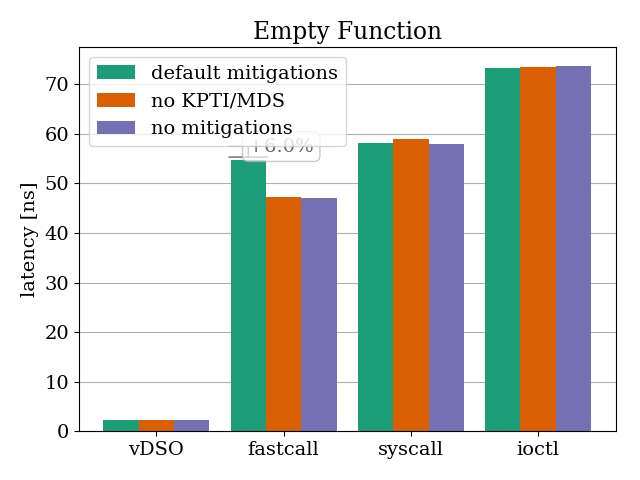
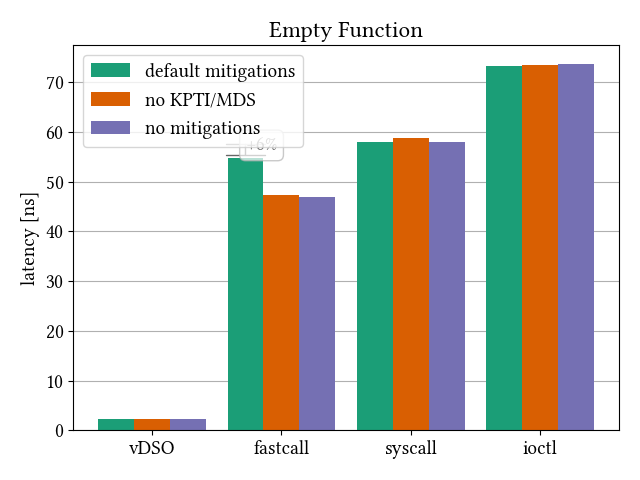
refactor plotting into a python package

diff --git a/plotting/percpu.py b/plotting/percpu.py
@@ -1,32 +1,9 @@
-#!/usr/bin/python3
-"""Script generating plots from the benchmark results.
+"""This file plots per-CPU benchmark results."""
 
-This script reads the CSV files in ./results/ and generates plots for them in
-./plots/.
-It requires the packages numpy and matplotlib.
-
-Usage: ./plots.py
-"""
-
-from os import scandir, path, makedirs
-import csv
-import numpy as np
+from os import makedirs, path
 from matplotlib import pyplot as plt
-
-RESULTS_DIR = "./results/"
-PLOTS_DIR = "./plots/"
-CSV_EXT = ".csv"
-PLOT_EXT = ".png"
-
-MITIGATIONS = {"mitigations=auto": "default mitigations",
-               "nopti%mds=off": "no KPTI/MDS", "mitigations=off": "no mitigations"}
-"""
-Mapping from directory names of different mitigation settings to plot legends.
-"""
-
-METHODS = {"vdso": "vDSO", "fastcall": "fastcall",
-           "syscall": "syscall", "ioctl": "ioctl"}
-"""Mapping from file names of the tested methods to plot labels."""
+import numpy as np
+from .utils import *
 
 GRID_ENABLE = True
 """Show horizontal grid lines."""
@@ -47,16 +24,6 @@ ARROW_MITIGATION = list(MITIGATIONS.keys()).index("mitigations=auto")
 
 ARROW_COLOR = "0.4"
 
-SCENARIOS = {"Empty Function": {"fastcall_examples_noop", "ioctl_noop",
-                                "syscall_sys_ni_syscall", "vdso_noop"}, "64-Byte Copy": {"array/64"}}
-"""
-Mapping from plot titles for the tested scenarios to sets of identifying
-substrings in the name columns of the CSVs.
-"""
-
-SCENARIO_COLUMN = "name"
-RESULT_COLUMN = "cpu_time"
-BYTES_COLUMN = "bytes_per_second"
 BAR_WIDTH = 1
 BAR_SPACE = 0.6
 """Space between groups of bars in the plots."""
@@ -64,12 +31,6 @@ BAR_SPACE = 0.6
 Y_LABEL_LATENCY = "latency [ns]"
 Y_LABEL_THROUGHPUT_INVOCATIONS = "invocations per second"
 Y_LABEL_THROUGHPUT_BYTES = "bytes per second"
-LATENCY_TO_SECONDS = 1e-9
-"""Factor for converting from given latency to latency in seconds."""
-
-FONT = {"family": ["Linux Libertine", "Libertinus Serif", "serif"],
-        "size": 14}
-"""This mimics the font used in the paper."""
 
 COLORS = ("1b9e77", "d95f02", "7570b3")
 BAR_OFFSET = -(len(MITIGATIONS) - 1) * BAR_WIDTH / 2
@@ -78,75 +39,11 @@ BAR_GROUP = len(MITIGATIONS) * BAR_WIDTH + BAR_SPACE
 EVALUATIONS = {}
 
 
-def main():
-    """This iterates through all tested CPUs and generates plots."""
-    plt.rc("font", **FONT)
-
-    with scandir(RESULTS_DIR) as it:
-        for entry in it:
-            if not entry.is_dir():
-                continue
-
-            process_cpu(entry.path)
-
-
-def process_cpu(cpu_dir):
-    """This reads and plots data for a single CPU."""
-    results = read_cpu(cpu_dir)
-    cpu_dir = path.join(PLOTS_DIR, path.basename(cpu_dir))
-    plot_cpu(cpu_dir, results)
-
-
-def read_cpu(cpu_dir):
-    """Read results for the CPU into an array.
-
-    The shape of the array is (MITIGATIONS, METHODS, SCENARIOS).
-    """
-    results = []
-    for mitigation in MITIGATIONS:
-        miti_dir = path.join(cpu_dir, mitigation)
-        results.append(read_mitigation(miti_dir))
-    return np.stack(results)
-
-
-def read_mitigation(miti_dir):
-    """Read results for the mitigation into an array."""
-    results = []
-    for method in METHODS:
-        method_file = path.join(miti_dir, method) + CSV_EXT
-        results.append(read_method(method_file))
-    return np.stack(results)
-
-
-def read_method(method_file):
-    """Read results for this csv file into an array.
-
-    The array has two columns: one for latency and one for throughput (bytes).
-    """
-    array = np.zeros((len(SCENARIOS), 2))
-    with open(method_file) as csv_file:
-        reader = csv.reader(csv_file)
-        header = next(reader)
-        scen_col = header.index(SCENARIO_COLUMN)
-        result_col = header.index(RESULT_COLUMN)
-        bytes_col = header.index(BYTES_COLUMN)
-        for row in reader:
-            label = row[scen_col]
-            index = find_scenario(label)
-            if index is None:
-                continue
-            array[index, 0] = float(row[result_col])
-            throughput = row[bytes_col]
-            array[index, 1] = np.nan if throughput == "" else float(throughput)
-    return array
-
-
-def find_scenario(label):
-    """Findout the index into the SCENARIOS dictionary for this label or None."""
-    for i, idents in enumerate(SCENARIOS.values()):
-        for ident in idents:
-            if ident in label:
-                return i
+def plot(results: Results):
+    """This plots the data for every CPU."""
+    for i, cpu in enumerate(results.cpus):
+        cpu_dir = path.join(PLOTS_DIR, cpu)
+        plot_cpu(cpu_dir, results.array[i])
 
 
 def plot_cpu(cpu_dir, results):
@@ -246,7 +143,3 @@ def draw_arrow(ax, x, results):
     bbox = dict(boxstyle="round", color="w", ec="0.7", alpha=0.7)
     ax.annotate(text, center_coords, color=ARROW_COLOR,
                 bbox=bbox)
-
-
-if __name__ == "__main__":
-    main()

diff --git a/plotting/utils.py b/plotting/utils.py
@@ -1,0 +1,112 @@
+from os import scandir, path
+import csv
+import numpy as np
+
+RESULTS_DIR = "./results/"
+PLOTS_DIR = "./plots/"
+CSV_EXT = ".csv"
+PLOT_EXT = ".png"
+
+MITIGATIONS = {"mitigations=auto": "default mitigations",
+               "nopti%mds=off": "no KPTI/MDS", "mitigations=off": "no mitigations"}
+"""
+Mapping from directory names of different mitigation settings to plot legends.
+"""
+
+METHODS = {"vdso": "vDSO", "fastcall": "fastcall",
+           "syscall": "syscall", "ioctl": "ioctl"}
+"""Mapping from file names of the tested methods to plot labels."""
+
+SCENARIOS = {"Empty Function": {"fastcall_examples_noop", "ioctl_noop",
+                                "syscall_sys_ni_syscall", "vdso_noop"}, "64-Byte Copy": {"array/64"}}
+"""
+Mapping from plot titles for the tested scenarios to sets of identifying
+substrings in the name columns of the CSVs.
+"""
+
+SCENARIO_COLUMN = "name"
+RESULT_COLUMN = "cpu_time"
+BYTES_COLUMN = "bytes_per_second"
+LATENCY_TO_SECONDS = 1e-9
+"""Factor for converting from given latency to latency in seconds."""
+
+FONT = {"family": ["Linux Libertine", "Libertinus Serif", "serif"],
+        "size": 14}
+"""This mimics the font used in the paper."""
+
+
+class Results:
+    def __init__(self, array, cpus):
+        self.array = array
+        self.cpus = cpus
+
+
+def read_benchmarks():
+    """Read benchmark results into a Results object.
+
+    The shape of the array is (CPU, MITIGATIONS, METHODS, SCENARIOS).
+    The CPU names are stored in cpus.
+    """
+    results = []
+    cpus = []
+
+    with scandir(RESULTS_DIR) as it:
+        for entry in it:
+            if not entry.is_dir():
+                continue
+
+            results.append(read_cpu(entry.path))
+            cpus.append(entry.name)
+    return Results(np.stack(results), cpus)
+
+
+def read_cpu(cpu_dir):
+    """Read results for the CPU into an array.
+
+    The shape of the array is (MITIGATIONS, METHODS, SCENARIOS).
+    """
+    results = []
+    for mitigation in MITIGATIONS:
+        miti_dir = path.join(cpu_dir, mitigation)
+        results.append(read_mitigation(miti_dir))
+    return np.stack(results)
+
+
+def read_mitigation(miti_dir):
+    """Read results for the mitigation into an array."""
+    results = []
+    for method in METHODS:
+        method_file = path.join(miti_dir, method) + CSV_EXT
+        results.append(read_method(method_file))
+    return np.stack(results)
+
+
+def read_method(method_file):
+    """Read results for this csv file into an array.
+
+    The array has two columns: one for latency and one for throughput (bytes).
+    """
+    array = np.zeros((len(SCENARIOS), 2))
+    with open(method_file) as csv_file:
+        reader = csv.reader(csv_file)
+        header = next(reader)
+        scen_col = header.index(SCENARIO_COLUMN)
+        result_col = header.index(RESULT_COLUMN)
+        bytes_col = header.index(BYTES_COLUMN)
+        for row in reader:
+            label = row[scen_col]
+            index = find_scenario(label)
+            if index is None:
+                continue
+            array[index, 0] = float(row[result_col])
+            throughput = row[bytes_col]
+            array[index, 1] = np.nan if throughput == "" else float(throughput)
+    return array
+
+
+def find_scenario(label):
+    """Findout the index into the SCENARIOS dictionary for this label or None."""
+    for i, idents in enumerate(SCENARIOS.values()):
+        for ident in idents:
+            if ident in label:
+                return i

diff --git a/plotting/__main__.py b/plotting/__main__.py
@@ -1,0 +1,15 @@
+from matplotlib import pyplot as plt
+from . import percpu
+from .utils import *
+
+
+def main():
+    """This iterates through all tested CPUs and generates plots."""
+    plt.rc("font", **FONT)
+
+    results = read_benchmarks()
+    percpu.plot(results)
+
+
+if __name__ == "__main__":
+    main()

diff --git a/plotting/__init__.py b/plotting/__init__.py
@@ -1,0 +1,8 @@
+"""Script generating plots from the benchmark results.
+
+This script reads the CSV files in ./results/ and generates plots for them in
+./plots/.
+It requires the packages numpy and matplotlib.
+
+Usage: python3 -m plotting
+"""
